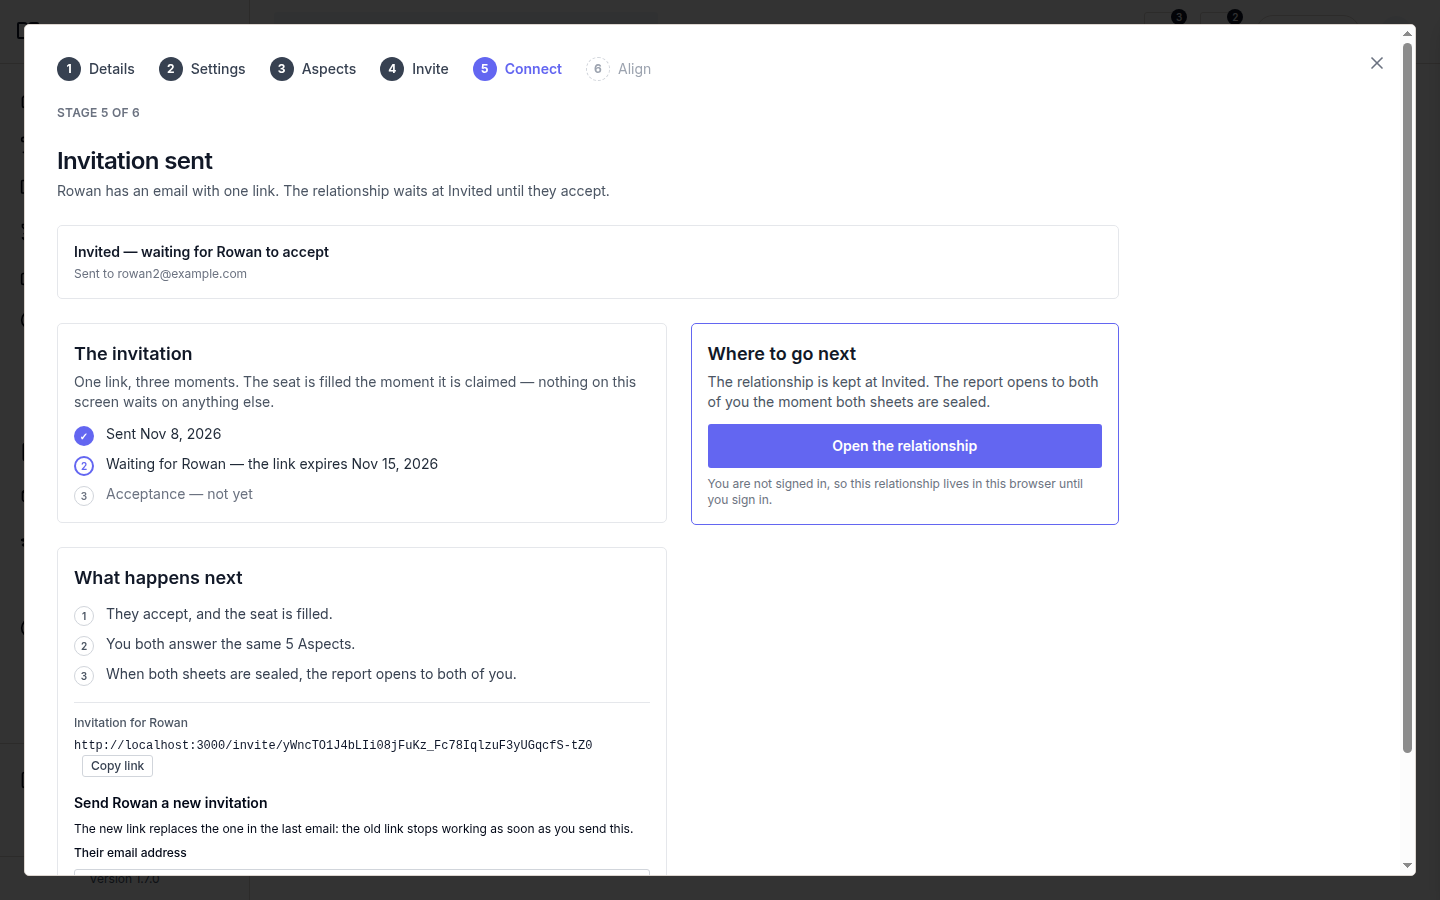
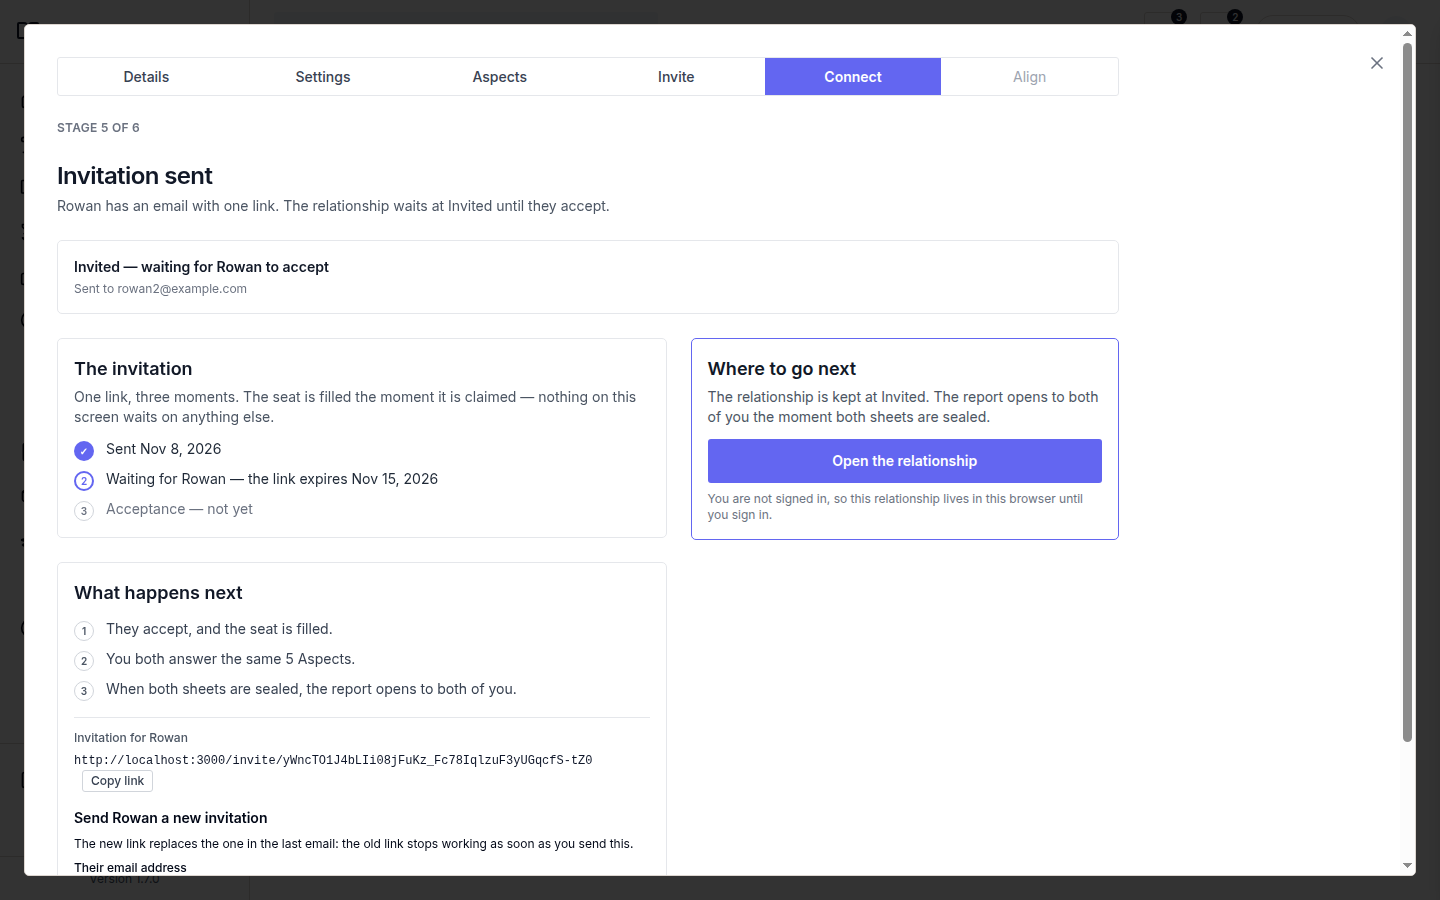
test(qa): recapture the #735 stills against the cell-rail build, and correct the evidence page
The stills were captured before origin/main's measured cell rail (#716/#733) landed
under this card, so the rail they showed was the numbered stepper this repo retired.
All eight are re-captured from the built tree on the demo branch with the DOM-fact
assertions attached (cell count, sixth cell's state and href, the Stage n of 6 line):
stage 1 at 1440 and 390, the Align cell unavailable and live at both widths, and the
alignment the live cell opens.

diff --git a/docs/qa-flow-stages/README.md b/docs/qa-flow-stages/README.md
@@ -22,30 +22,35 @@ Stage {n} of 6
 ```
 
 `stage-1-details-1440.png` and `stage-1-details-390.png` — stage 1 of the create flow, read back
-from the DOM at each width: `nav[aria-label="Relationship lifecycle"]` with **6** `li`, the
-`Stage 1 of 6` line, the sixth cell `data-step-state="unavailable"`, and the stage column
-(`max-w-[1126px]`) inside the viewport (375×… at 390, no horizontal overflow).
+from the DOM at each width: `nav[aria-label="Relationship lifecycle"]` with **6** cells
+(`data-step-cell`, the measured cell rail #716 draws), the `Stage 1 of 6` line, the sixth cell
+`data-step-state="unavailable"`, and the stage column (`max-w-[1126px]`) inside the viewport
+(375×… at 390, no horizontal overflow).
 
 ## Align is conditional
 
 The sixth cell is live only once an assessment is shared on the relationship — `answering`,
 `awaiting_payment` or `complete` (`alignAvailableOf()` in `lib/flow/stage.ts`). It is never a
 step the wizard advances into: no stage posts to it, and the create flow's four stages plus
-Completed are the only `current` values the rail is mounted with.
+Connect are the only `current` values the rail is mounted with — the answer sheet mounts it at
+`Align`, which is the stage that screen is in, and `current` is live by definition.
 
-| Still                            | Relationship state                           | Sixth cell                                                                     |
-| -------------------------------- | -------------------------------------------- | ------------------------------------------------------------------------------ |
-| `align-unavailable-1440.png`     | invitation unclaimed — nothing is shared     | `data-step-state="unavailable"`, no `<a>`, visually-hidden `Not available yet` |
-| `align-unavailable-390.png`      | the same, at 390                             | the same                                                                       |
-| `align-available-1440.png`       | claimed, both seats bound (in progress)      | a link to `/assessment/instances/<id>`                                         |
-| `align-available-390.png`        | the same, at 390                             | the same                                                                       |
-| `align-opens-alignment-1440.png` | both answered and both accepted (`complete`) | the link opens the Alignment the repo has                                      |
-| `align-opens-alignment-390.png`  | the same, at 390                             | the same                                                                       |
+| Still                            | Relationship state                                         | Sixth cell                                                                      |
+| -------------------------------- | ---------------------------------------------------------- | ------------------------------------------------------------------------------- |
+| `align-unavailable-1440.png`     | invitation unclaimed — one seat, nothing is shared         | `data-step-state="unavailable"`, no `<a>`, visually-hidden `Not available yet`  |
+| `align-unavailable-390.png`      | the same, at 390                                           | the same                                                                        |
+| `align-available-1440.png`       | both seats claimed and both accepted (a shared assessment) | a link to `/assessment/instances/<id>`, `data-step-state="upcoming"` at stage 5 |
+| `align-available-390.png`        | the same, at 390                                           | the same                                                                        |
+| `align-opens-alignment-1440.png` | what the live cell opens: the instance screen              | the Alignment, Aspect by Aspect (`Both sheets are sealed…`)                     |
+| `align-opens-alignment-390.png`  | the same, at 390                                           | the same                                                                        |
 
 Both relationships were created through the shipped flow (stage 1 → Settings → commit), the
 counterparty seat claimed through the real invitation link (`POST /invite/<token>/claim`), and the
-answers posted to the real endpoints (`…/answers`, `…/accepts`) — no fixture was written into the
-database by hand, and both instances are demo-branch rows.
+answers posted to the real endpoints (`…/answers`) — no fixture was written into the database by
+hand, and both instances are demo-branch rows. Each still is captured with DOM-fact assertions
+attached (`cdp-capture-flow.py`): the viewport width, the cell count, the sixth cell's state and
+href, and the `Stage n of 6` line are read back out of the rendered page and the capture fails
+when any of them is not the claim above.
 
 ## Stage 1 — the inventory, and the grid
 
@@ -58,10 +63,10 @@ row 2 (6/6), `description` across row 3 (12). Two lines the artifact does not dr
 
 ## The tests bite, measured
 
-| Change made locally                              | Result                                                    |
-| ------------------------------------------------ | --------------------------------------------------------- |
-| `Settings` → `Mode` in `data/pages/lifecycle.ts` | 3 red: the six words, the six names drawn, `Stage 2 of 6` |
-| an extra `who` item added to the fixture         | 1 red: the inventory is 15 items, not 16                  |
+| Change made locally                              | Result                                                      |
+| ------------------------------------------------ | ----------------------------------------------------------- |
+| `Settings` → `Mode` in `data/pages/lifecycle.ts` | 2 red: the six words in order, the six names the rail draws |
+| an extra `who` item added to the fixture         | 1 red: the inventory is 15 items, not 16                    |
 
 Both were reverted before the gate run.
 
